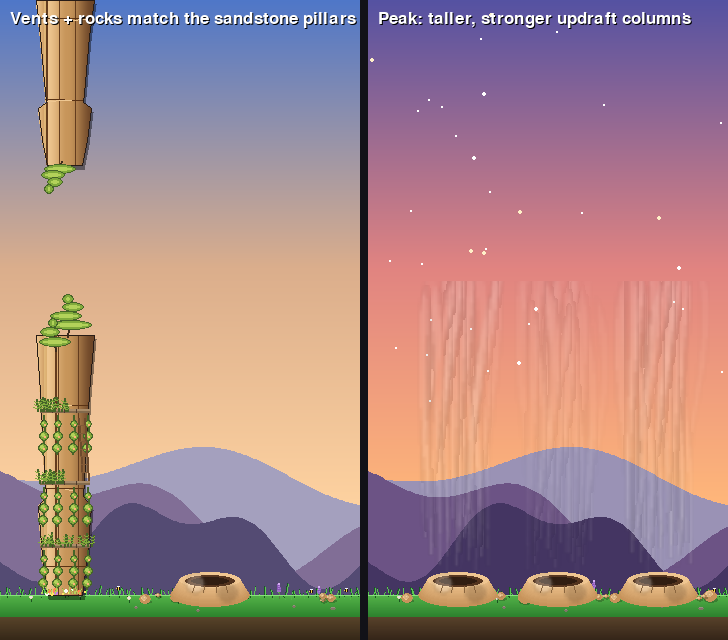
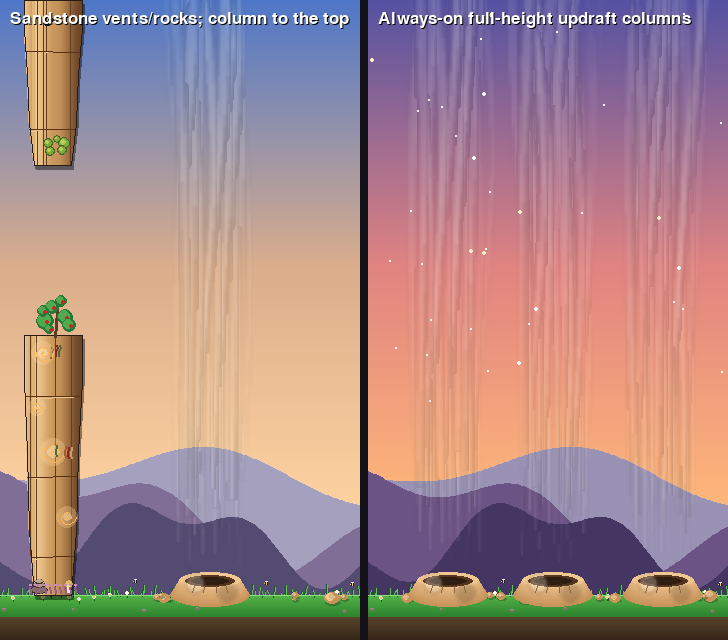
Geysers: always-on, full-screen-height columns, full-column lift
Per the clarified mechanic:
- Each geyser is ALWAYS erupting (no dormant/telegraph cycle); the hot
  air is continuous the whole time it's on screen.
- The wind column now reaches the TOP of the screen (GEYSER_H = GROUND_Y;
  steam frames baked full-height, trimmed to 20 fps to keep memory ~10MB).
- The updraft pushes Pip up anywhere within the column's width (GEYSER_W
  widened to 84 to match the visible air) at any height, all the way up —
  he rides it to the top, where the existing ceiling-clamp holds him (no
  death). Simplified Geyser.update/draw to the always-on path.

https://claude.ai/code/session_01JWYQYgqQbSfQKYb7zu7YPg

diff --git a/game/entities.py b/game/entities.py
@@ -2416,49 +2416,26 @@ class Geyser:
         intensity = max(0.0, min(1.0, intensity))
         self.x = float(x)
         self.intensity = intensity
-        self.active_len = GEYSER_ACTIVE_COLD + (GEYSER_ACTIVE_HOT - GEYSER_ACTIVE_COLD) * intensity
-        self.dormant_len = GEYSER_DORMANT_COLD + (GEYSER_DORMANT_HOT - GEYSER_DORMANT_COLD) * intensity
-        # Start partway into a dormant stretch so neighbouring vents desync.
-        self.phase = "dormant"
-        self.t = random.uniform(0.0, self.dormant_len)
-        self.active = False
-        self.active_strength = 0.0
+        # Unused now (kept for slot compatibility) — geysers are always-on.
+        self.active_len = 0.0
+        self.dormant_len = 0.0
+        # ALWAYS erupting: no dormant/telegraph cycle. The hot air is on the
+        # whole time the geyser is on screen — a continuous full-height
+        # column + continuous updraft.
+        self.phase = "active"
+        self.t = 0.0
+        self.active = True
+        self.active_strength = 1.0
         self._anim_t = random.uniform(0.0, 10.0)
 
     def update(self, dt):
+        # Always active — only the steam animation clock advances.
         self._anim_t += dt
-        self.t += dt
-        if self.phase == "dormant":
-            self.active = False
-            self.active_strength = 0.0
-            if self.t >= self.dormant_len:
-                self.t = 0.0
-                self.phase = "telegraph"
-        elif self.phase == "telegraph":
-            self.active = False
-            self.active_strength = 0.0
-            if self.t >= GEYSER_TELEGRAPH:
-                self.t = 0.0
-                self.phase = "active"
-        else:  # active
-            self.active = True
-            ramp = 0.3
-            if self.t < ramp:
-                s = self.t / ramp
-            elif self.t > self.active_len - ramp:
-                s = (self.active_len - self.t) / ramp
-            else:
-                s = 1.0
-            self.active_strength = max(0.0, min(1.0, s))
-            if self.t >= self.active_len:
-                self.t = 0.0
-                self.phase = "dormant"
-                self.active = False
-                self.active_strength = 0.0
 
     def contains(self, bx, by):
-        """True if (bx, by) is inside the active lift column. The zone ends at
-        the column top so lift can't carry the bird past mid-screen."""
+        """True if (bx, by) is inside the lift column. The column spans the
+        full screen height, so the air pushes Pip up anywhere within its
+        width, all the way to the top."""
         if not self.active:
             return False
         return (abs(bx - self.x) <= GEYSER_W * 0.5
@@ -2471,38 +2448,15 @@ class Geyser:
         cx = int(self.x)
         base_y = GROUND_Y
 
-        # Sinter-cone vent — always drawn so dormant vents read as "there".
+        # Sinter-cone vent at the base.
         surf.blit(geyser_fx.get_vent_cone(),
                   (cx - geyser_fx.CONE_W // 2, base_y - geyser_fx.CONE_BASE_ROW))
 
-        if self.phase == "telegraph":
-            # Bubbling motes hop at the vent to telegraph the rise.
-            for i in range(3):
-                t = (self._anim_t * 2.2 + i / 3.0) % 1.0
-                mx = cx + math.sin((self._anim_t * 6.0 + i) * 1.3) * GEYSER_W * 0.2
-                my = base_y - 4 - t * 14
-                r = max(1, int(3 * (1.0 - t)))
-                a = int(180 * (1.0 - t))
-                s = pygame.Surface((r * 2 + 2, r * 2 + 2), pygame.SRCALPHA)
-                pygame.draw.circle(s, (255, 210, 150, a), (r + 1, r + 1), r)
-                surf.blit(s, (int(mx - r - 1), int(my - r - 1)),
-                          special_flags=pygame.BLEND_ADD)
-            return
-
-        if not self.active or self.active_strength <= 0.0:
-            return
-
-        stg = self.active_strength
-        mouth_y = base_y - geyser_fx.MOUTH_DY
-
-        # Flowing steam column — pre-baked looping frames; the per-geyser
-        # _anim_t offset desyncs neighbouring columns. Fade with active_strength.
+        # Always-on flowing steam column, full screen height — pre-baked
+        # looping frames; the per-geyser _anim_t offset desyncs neighbours.
         frame = geyser_fx.get_steam_frames()[
             int(self._anim_t * geyser_fx.STEAM_FPS) % geyser_fx.STEAM_N]
-        if stg < 1.0:
-            frame = frame.copy()
-            frame.fill((255, 255, 255, int(255 * stg)),
-                       special_flags=pygame.BLEND_RGBA_MULT)
+        mouth_y = base_y - geyser_fx.MOUTH_DY
         surf.blit(frame, (cx - geyser_fx.STEAM_W // 2, mouth_y - geyser_fx.STEAM_H))
 
 

diff --git a/game/config.py b/game/config.py
@@ -176,22 +176,22 @@ WEATHER_SNOW_MELT_BASE  = 0.025   # melt while snowing hard
 WEATHER_SNOW_MELT_FADE  = 0.16    # extra melt as the storm fades out
 
 # ── Morning-thermal geysers ─────────────────────────────────────────────────
-# Ground geysers spawned during the thermal window (weather.thermal_intensity,
-# ~60-100s). Spawn density AND each geyser's active duty-cycle both scale with
-# the live intensity, so geysers start sparse + mostly dormant near 60s and
-# build to frequent + often-active by the ~80s peak. While a geyser is active
-# its column applies a STRONG continuous upward push — a clearly-felt boost
-# that launches Pip upward faster than his own flap. The lift zone ends at the
-# column top (well above mid-screen but below the ceiling), so however strong
-# the push, the updraft physically cannot pin Pip to the ceiling.
+# Ground geysers spawned during the thermal window. Spawn density + how many
+# appear at once (1→GEYSER_MAX_CONCURRENT) scale with the live intensity, so
+# they build sparse→busy toward the ~96s peak. Each geyser, once spawned, is
+# ALWAYS erupting: a continuous wind column that reaches the top of the screen
+# and a STRONG continuous updraft. Anywhere inside the column's width — at any
+# height, all the way up — the air pushes Pip upward (he rides it to the top;
+# the ceiling clamps him, it never kills). The push is capped only in SPEED so
+# the ride stays readable, not in reach.
 THERMAL_SPAWN_THRESHOLD  = 0.08   # legacy floor (kept; geyser gate uses the threshold below)
 THERMAL_SPAWN_CHANCE_MAX = 0.85   # per-pillar geyser spawn chance at peak intensity
 GEYSER_SPAWN_THRESHOLD   = 0.35   # intensity above which GEYSERS (not just rocks) spawn
 GEYSER_MAX_CONCURRENT    = 3      # cap on simultaneous geysers (allowed scales 1→3 with intensity)
 ROCK_SPAWN_THRESHOLD     = 0.02   # intensity above which scattered sinter rocks appear
 ROCK_SLOTS_PER_PILLAR    = 5      # candidate rock slots rolled per pillar; each fills with prob = intensity
-GEYSER_W            = 46.0        # lift-column width (px)
-GEYSER_H            = 300.0       # column height above ground (px); taller zone carries Pip higher (anti-pin = zone top)
+GEYSER_W            = 84.0        # column / lift width (px) — matches the visible air footprint
+GEYSER_H            = float(GROUND_Y)  # column reaches the top of the screen; lift acts the full height
 GEYSER_LIFT_ACCEL   = 3400.0      # strong continuous upward accel inside the column (px/s^2)
 GEYSER_LIFT_VY_CAP  = 600.0       # max upward speed the column imparts (> |FLAP_V|=520 → a real launch)
 GEYSER_ACTIVE_HOT   = 3.0         # active-window length at peak intensity (s)

diff --git a/game/geyser_fx.py b/game/geyser_fx.py
@@ -125,7 +125,7 @@ def get_vent_cone() -> "pygame.Surface":
 # ── steam column (baked once into a looping frame set) ───────────────────────
 
 STEAM_W, STEAM_H = 128, int(GEYSER_H)
-STEAM_FPS = 24
+STEAM_FPS = 20                    # frames are full screen-height now → fewer, lighter
 STEAM_N = int(PERIOD * STEAM_FPS)
 _STEAM_BASE_ALPHA = 21.0          # the faint baseline (the locked 1.4x level)
 _STEAM_BOOST = 2.4               # base-region opacity multiplier
